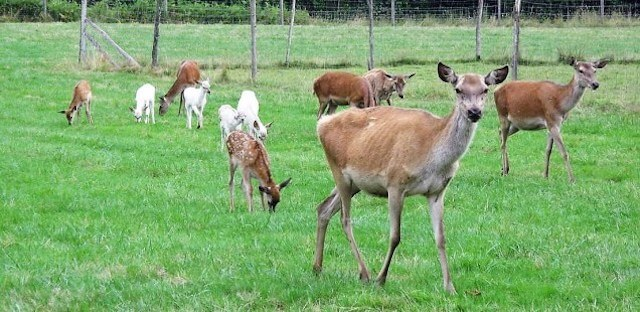
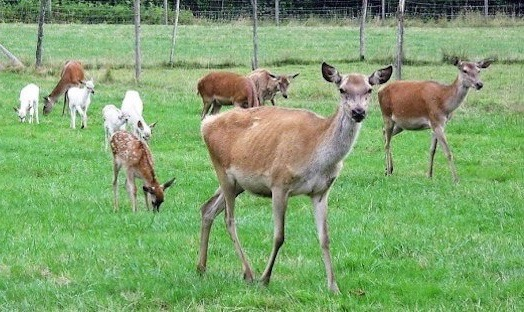
add pictos on footers + recadrer some pictures"

diff --git a/src/Restaurant/FooterRestaurant.js b/src/Restaurant/FooterRestaurant.js
@@ -1,5 +1,9 @@
 import React, { Component } from 'react';
 
+import tel_img from '../images/logos/tel.png';
+import mail_img from '../images/logos/mail.png';
+import position_img from '../images/logos/position.png';
+
 import { withStyles, Typography, Grid, Button } from '@material-ui/core';
 import PropTypes from 'prop-types';
 
@@ -18,8 +22,13 @@ const styles = {
     display: 'flex',
     flexDirection: 'column'
   },
-  mail: {
+  noCap: {
     textTransform: 'none',
+    textAlign: 'justify'
+  },
+  picto: {
+    height: '15px',
+    paddingRight: '10px'
   },
 }
 
@@ -58,6 +67,7 @@ class FooterRestaurant extends Component {
               <ul>
                 <li>Connexion <strong>wifi</strong> disponible.</li>
                 <li>Possibilité de <strong>privatiser</strong> salle de réunion ou salon.</li>
+                <li>Organisation de baptêmes, communions, anniversaires.</li>
               </ul>
             </Typography>
           </Grid>
@@ -69,14 +79,15 @@ class FooterRestaurant extends Component {
               gutterBottom>
               Nous contacter
             </Typography>
-            <Typography>Pour tout évènement :</Typography>
-            <Typography>- Réservation de salle</Typography>
-            <Typography>- Communion</Typography>
-            <Typography>- Baptême</Typography>
-            <Typography gutterBottom>- Anniveraire</Typography>
-            <Button href="tel:0558986022">05 58 98 60 22</Button>
-            <Button className={classes.mail} href="mailto:auxtauzins@wanadoo.fr">auxtauzins@wanadoo.fr</Button>
-            <Typography>486 route Raphael Lonné, 40380, Montfort-en-Chalosse</Typography>
+            <Button href="tel:0558986022">
+              <img className={classes.picto} src={tel_img} alt='tel' />05 58 98 60 22
+            </Button>
+            <Button className={classes.noCap} href="mailto:auxtauzins@wanadoo.fr">
+              <img className={classes.picto} src={mail_img} alt='mail' />auxtauzins@wanadoo.fr
+            </Button>
+            <Button className={classes.noCap} href="https://www.google.com/maps/place/hotel+restaurant+AUX+TAUZINS/@43.709234,-0.8244906,18z/data=!3m1!4b1!4m5!3m4!1s0xd569bf8e0c594bf:0xdf3569df98d76aa8!8m2!3d43.709234!4d-0.8233963">
+              <img className={classes.picto} src={position_img} alt='position' />486 route Raphael Lonné 40380, Montfort-en-Chalosse
+            </Button>
           </Grid>
         </Grid>
 			</div>

diff --git a/src/Hotel/FooterHotel.js b/src/Hotel/FooterHotel.js
@@ -1,5 +1,9 @@
 import React, { Component } from 'react';
 
+import tel_img from '../images/logos/tel.png';
+import mail_img from '../images/logos/mail.png';
+import position_img from '../images/logos/position.png';
+
 import { withStyles, Typography, Grid, Button } from '@material-ui/core';
 import PropTypes from 'prop-types';
 
@@ -18,8 +22,13 @@ const styles = {
     display: 'flex',
     flexDirection: 'column'
   },
-  mail: {
+  noCap: {
     textTransform: 'none',
+    textAlign: 'justify'
+  },
+  picto: {
+    height: '15px',
+    paddingRight: '10px'
   },
 }
 
@@ -74,14 +83,15 @@ class FooterHotel extends Component {
               gutterBottom>
               Nous contacter
             </Typography>
-            <Typography>Pour tout évènement :</Typography>
-            <Typography>- Réservation de salle</Typography>
-            <Typography>- Communion</Typography>
-            <Typography>- Baptême</Typography>
-            <Typography gutterBottom>- Anniveraire</Typography>
-            <Button href="tel:0558986022">05 58 98 60 22</Button>
-            <Button className={classes.mail} href="mailto:auxtauzins@wanadoo.fr">auxtauzins@wanadoo.fr</Button>
-            <Typography>486 route Raphael Lonné, 40380, Montfort-en-Chalosse</Typography>
+            <Button href="tel:0558986022">
+              <img className={classes.picto} src={tel_img} alt='tel' />05 58 98 60 22
+            </Button>
+            <Button className={classes.noCap} href="mailto:auxtauzins@wanadoo.fr">
+              <img className={classes.picto} src={mail_img} alt='mail' />auxtauzins@wanadoo.fr
+            </Button>
+            <Button className={classes.noCap} href="https://www.google.com/maps/place/hotel+restaurant+AUX+TAUZINS/@43.709234,-0.8244906,18z/data=!3m1!4b1!4m5!3m4!1s0xd569bf8e0c594bf:0xdf3569df98d76aa8!8m2!3d43.709234!4d-0.8233963">
+              <img className={classes.picto} src={position_img} alt='position' />486 route Raphael Lonné 40380, Montfort-en-Chalosse
+            </Button>
           </Grid>
         </Grid>
 			</div>

diff --git a/src/Hotel/RoomsLayer.js b/src/Hotel/RoomsLayer.js
@@ -23,7 +23,7 @@ class RoomsLayer extends Component {
         <Typography variant='h2' gutterBottom>Nos chambres</Typography>
         <Grid className={classes.menus} container>
           {listRooms.map(it =>
-            <Grid item xs={12} sm={6} lg={3} key={it.content.name}>
+            <Grid item xs={12} sm={6} key={it.content.name}>
              <Room content={it.content} imgs={it.imgs} />
             </Grid> 
             )}
